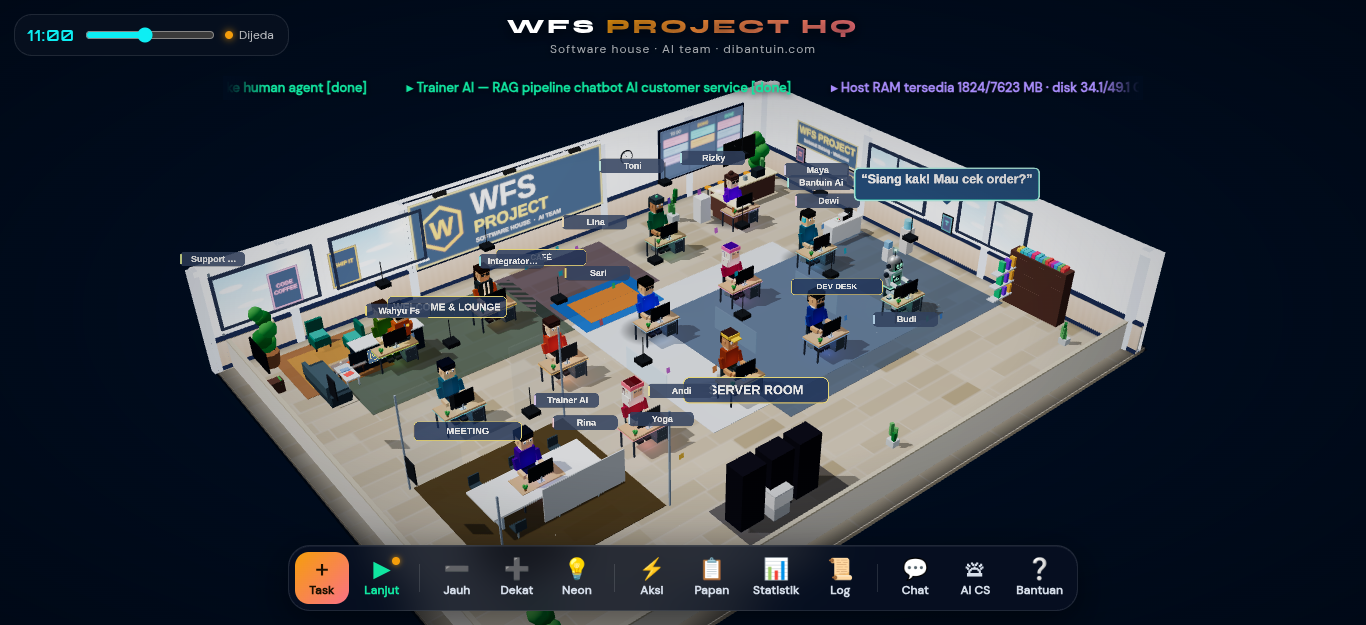
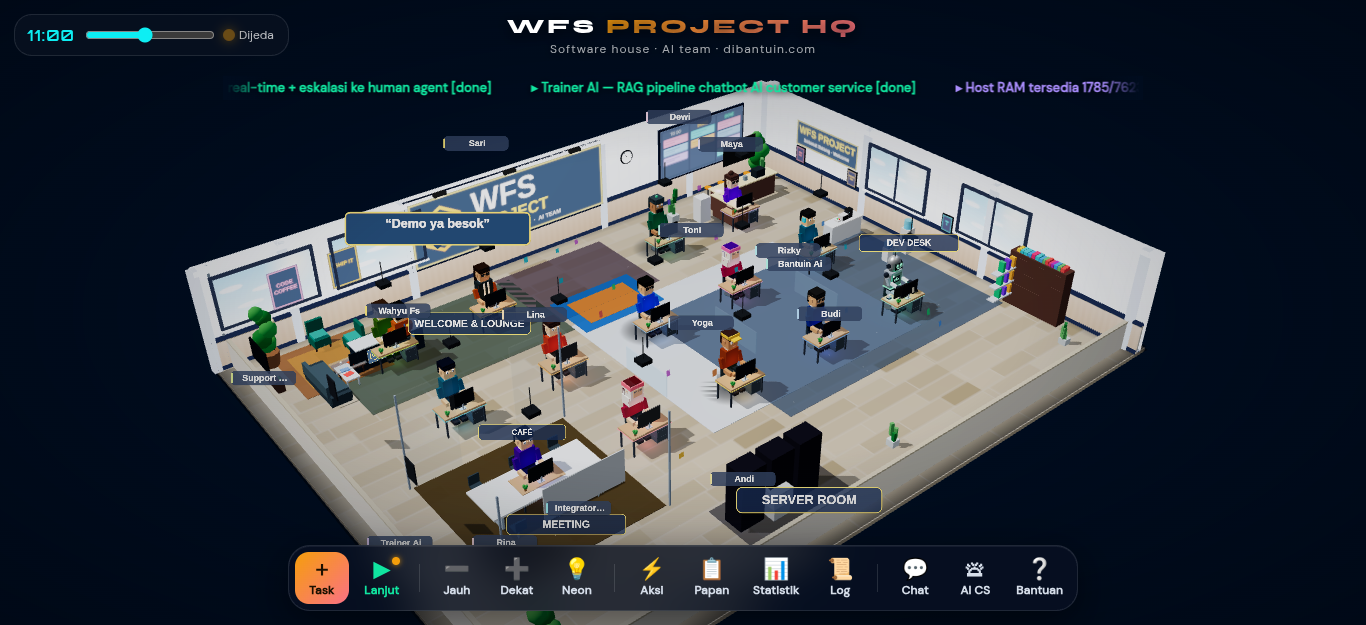
label zona ke tepi depan zona + breathing room anti-overlap 14px, cap dy 24

diff --git a/src/scene/OfficeScene.js b/src/scene/OfficeScene.js
@@ -1812,8 +1812,8 @@ function animate(){
         const pi=byY[i];
         let minY=-Infinity;
         for(let j=0;j<i;j++){
-          const pj=byY[j];if(Math.abs(pi.x+pi.offX-(pj.x+pj.offX))>=((pi.sw||pi.zw||0)+(pj.sw||pj.zw||0))/2+8)continue;
-          const need=(pj.y+pj.offY)+((pi.sh||pi.zh||0)+(pj.sh||pj.zh||0))/2+8;
+          const pj=byY[j];if(Math.abs(pi.x+pi.offX-(pj.x+pj.offX))>=((pi.sw||pi.zw||0)+(pj.sw||pj.zw||0))/2+14)continue;
+          const need=(pj.y+pj.offY)+((pi.sh||pi.zh||0)+(pj.sh||pj.zh||0))/2+14;
           if(need>minY)minY=need;
         }
         if(minY>-Infinity&&(pi.y+pi.offY)<minY)pi.offY=minY-(pi.y);
@@ -1822,7 +1822,7 @@ function animate(){
     // konversi offset piksel ke satuan dunia (~ jarak/tinggi layar), cap supaya label tidak melayang jauh
     const dist=camera.position.distanceTo(tgt), worldPerPx=2*dist*Math.tan(camera.fov*Math.PI/360)/container.clientHeight;
     pts.forEach(p=>{
-      const dy=Math.min(16,p.offY*worldPerPx*1.2), dx=Math.max(-5,Math.min(5,p.offX*worldPerPx));
+      const dy=Math.min(24,p.offY*worldPerPx*1.2), dx=Math.max(-5,Math.min(5,p.offX*worldPerPx));
       if(p.zone){if(p.zt){const dyz=Math.max(-25,Math.min(25,p.offY*worldPerPx*1.2)), dxz=Math.max(-6,Math.min(6,p.offX*worldPerPx)); p.zt.position.y=p.baseY+dyz; p.zt.position.x=p.baseX+dxz; const zu=p.zt.userData; zu.antiY=(zu.antiY||0)+dyz; zu.antiX=(zu.antiX||0)+dxz;} else if(p.bub){p.bub.position.y=p.baseY+dy*0.4; p.bub.position.x=p.baseX+dx*0.5;} return;} // zona/bubble
       p.a.label.position.y=p.baseY+dy; p.a.label.position.x=p.baseX+dx;
       p.a.label.userData.antiY=dy; p.a.label.userData.antiX=dx; // utk base frame berikutnya

diff --git a/src/scene/parts/flooring.js b/src/scene/parts/flooring.js
@@ -24,7 +24,9 @@ export function createZones(ctx){
     const zt=new THREE.CanvasTexture(zc);zt.minFilter=THREE.LinearFilter;
     const zl=new THREE.Sprite(new THREE.SpriteMaterial({map:zt,transparent:true,depthTest:false}));
     zl.center.set(.5,1);
-    const zly=(z.label==='MEETING')?z.z+3.4:(z.label==='SERVER ROOM')?z.z+1.8:z.z;
+    // label zona ditempatkan di tepi DEPAN zona (bukan tengah) supaya tidak menumpuk
+    // name tag agent yang duduk/berdiri di dalam area zona
+    const zly=z.z-z.d/2+0.7;
     zl.renderOrder=5;
     const zsc=(z.label.length>9)?1.25:1; // label panjang lebih besar
     zl.scale.set(3.4*zsc,.64*zsc,1);

diff --git a/DEV_LOG.md b/DEV_LOG.md
@@ -343,3 +343,8 @@
 - makeLabel (name tag agent) & nameplate meja: slice(0,14/16/24) kaku diganti pengukuran nyata canvas measureText — teks dipotong per karakter + '…' sampai muat lebar pill (W-60 / 220px). Nama panjang ("Support Human", "Integrator Bot", role panjang) kini berakhir "…" rapi, bukan dipotong mentah.
 - Bukti: build OK (1.5s), vitest 9/9, deploy ~/wfs-hq; e2e CDP 0 console error, agents 14; shot ck.png 517KB (scene hidup). Vision audit: "Support …" dan "Integrator …" berakhir ellipsis rapi; tak ada lagi potongan tanpa tanda (sisa hanya adjacency label & ticker tepi — perilaku marquee normal).
 - Sisa backlog: adjacency 3-8px cluster padat; "Wahyu Fs" tertutup label zona (anti-overlap berikutnya); verifikasi audio di browser asli.
+## 2026-10-18 03:20 WIB — label zona pindah ke tepi depan zona + breathing room sweep final
+- Backlog "\"Wahyu Fs\" tertutup label zona": label zona (flooring.js) dari tengah zona pindah ke tepi DEPAN (z - d/2 + 0.7) — keluar dari area duduk agent sehingga tidak lagi di bawah name tag. Berlaku semua 5 zona (MEETING/SERVER ROOM hardcode lama dihapus).
+- Anti-overlap diperkuat: sweep final greedy pad 8→14px, cap offset agent label dy 16→24 (cluster padat benar-benar terpisah, tidak mentok cap).
+- Bukti: build OK (1.8s), vitest 9/9, deploy ~/wfs-hq; e2e CDP 0 console error, agents 14; shot ck.png 514KB (scene hidup). Vision audit rating 8/10 — SEMUA 5 label zona terbaca penuh, tak ada teks-atas-teks total; sisa hanya sudut "Lina" menyentuh border WELCOME & LOUNGE.
+- Sisa backlog: adjacency sudut WELCOME & LOUNGE × Lina; tag dekat toolbar bawah terpotong; verifikasi audio di browser asli.
